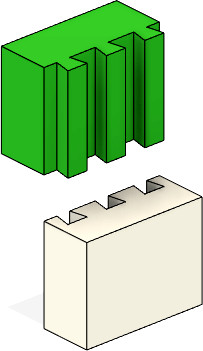
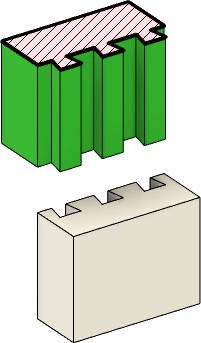
figure of discontinuous lattice and move to intro

Changed region(s): [[0.0, 0.0, 0.8358, 0.5248], [0.1791, 0.4956, 1.0, 1.0], [0.6269, 0.6122, 0.7761, 0.6414]]

diff --git a/1_intro.tex b/1_intro.tex
@@ -7,10 +7,40 @@ it is often those incompatible combinations where the different chemical make-up
 For example, polypropylene (PP) is semi-flexible and fatigue-resistant, but has a very weak chemical bond to more rigid filaments.
 In such cases it is necessary to rely on mechanical interlocking to prevent the materials from breaking apart from each other.
 
+
+
+\begin{figure}
+	\centering
+	\setlength{\figheight}{.45\columnwidth}\centering
+	\begin{subfigure}[B]{.25\columnwidth}
+		\includegraphics[height=\figheight]{sources/method/basic_2d_interlock.jpg}
+		\caption{A 2D dovetail interlock}
+		\label{fig:basic_2d_interlock}
+	\end{subfigure}
+	\begin{subfigure}[B]{.36\columnwidth}\centering
+		\includegraphics[height=\figheight]{sources/method/discontinuous_lattice.jpg}
+		\caption{Cubic lattice with disconnected islands}
+		\label{fig:discontinuous_lattice}
+	\end{subfigure}
+	\begin{subfigure}[B]{.36\columnwidth}\centering
+		\includegraphics[height=\figheight]{sources/method/basic_lattice.jpg}
+		\caption{The ITIM lattice with long continuous paths}
+		\label{fig:basic_structure_single_mat}
+	\end{subfigure}
+	\caption{Interlocking principles; exploded view with a section cut at the top layer. The dovetail can be disassembled by translation; the cubic lattice causes highly discontinuous extrusion on some layers; the ITIM lattice solves these problems.}
+	\label{fig:basic_structure}
+\end{figure}
+
+
+
+
+
+
 A common type of interlocking can be found in jigsaw puzzles.
 The pieces interlock and stay connected because of the material stiffness.
 The interlock can be broken in plane by deformation of the pieces.
 Out of plane the pieces can be disassembled easily.
+See \cref{fig:basic_2d_interlock}.
 
 The mathematical study of topology can point us to a solution.
 Topology is the study of properties of geometric shapes which are preserved under continuous deformations, such as stretching, twisting and bending.
@@ -26,6 +56,7 @@ This interlocking principle is robust especially when flexible and deformable ma
 
 For the application of dual material FDM 3D printing we propose a high genus interlocking structure where all voids in the one material are filled with the other material and vice versa.
 However, most high genus topologies would introduce discontinuities in the extrusion process when sliced into layers for 3D printing, as each slice would contain disconnected islands.
+See \cref{fig:discontinuous_lattice}.
 Such discontinuities lead to defects, which influence the accuracy and the mechanical properties of the resulting part.
 Moreover, depositing disconnected islands of one material on top of a chemically incompatible material cannot reliably be performed since the island isn't fastened to anything.
 We therefore have to generate interlocking geometry for which the layers consist of long continuously connected areas.
@@ -42,10 +73,6 @@ Our contributions are as follows:
 	\item Two variations of the ITIM lattice optimized for tensile forces
 	\item Simplified analytical models for estimating tensile properties and for optimizing the design parameters of the interlocking structures
 \end{itemize}
-
-
-
-
 
 
 

diff --git a/4_method.tex b/4_method.tex
@@ -3,29 +3,6 @@
 
 
 
-\begin{figure}
-	\centering
-	\setlength{\figheight}{.4\columnwidth}\centering
-	\begin{subfigure}[B]{.25\columnwidth}
-		\includegraphics[height=\figheight]{sources/method/basic_2d_interlock.jpg}
-		\caption{A 2D dovetail interlock (displaced)}
-		\label{fig:basic_2d_interlock}
-	\end{subfigure}
-	\begin{subfigure}[B]{.36\columnwidth}\centering
-		\includegraphics[height=\figheight]{sources/method/basic_lattice.jpg}
-		\caption{The ITIM lattice \\ (exploded view)}
-		\label{fig:basic_structure_single_mat}
-	\end{subfigure}
-	\begin{subfigure}[B]{.36\columnwidth}\centering
-		\includegraphics[height=\figheight]{sources/method/connectivity_lattice.jpg}
-		\caption{Connectivity graph of the ITIM lattice}
-		\label{fig:connectivity_graph}
-	\end{subfigure}
-	\caption{Classical 2D interlocking versus ITIM 3D interlocking.}
-	\label{fig:basic_structure}
-\end{figure}
-
-
 
 
 We will optimize interlocking structures for tensile strength;
@@ -87,7 +64,7 @@ The genus interlocking structure we propose consists of horizontal beams alterna
 On top of that we print another set of beams rotated about Z.
 Long horizontal beams assure continuous extrusion, while the alternating direction of the beams assures the interlock - simple and effective.
 See \cref{fig:basic_structure_single_mat}.
-\Cref{fig:connectivity_graph} exhibits the highly connected connectivity graph of the ITIM lattice, which demonstrates the high genus of the topology.
+%\Cref{fig:connectivity_graph} exhibits the highly connected connectivity graph of the ITIM lattice, which demonstrates the high genus of the topology.
 
 When joining bodies of a different material, some region around the interface between the two bodies would be replaced by such a lattice structure.
 The interface could be several cells wide, but if the beams were of constant width then the addition of extra cells wouldn't increase the tensile strength of the interface lattice.
